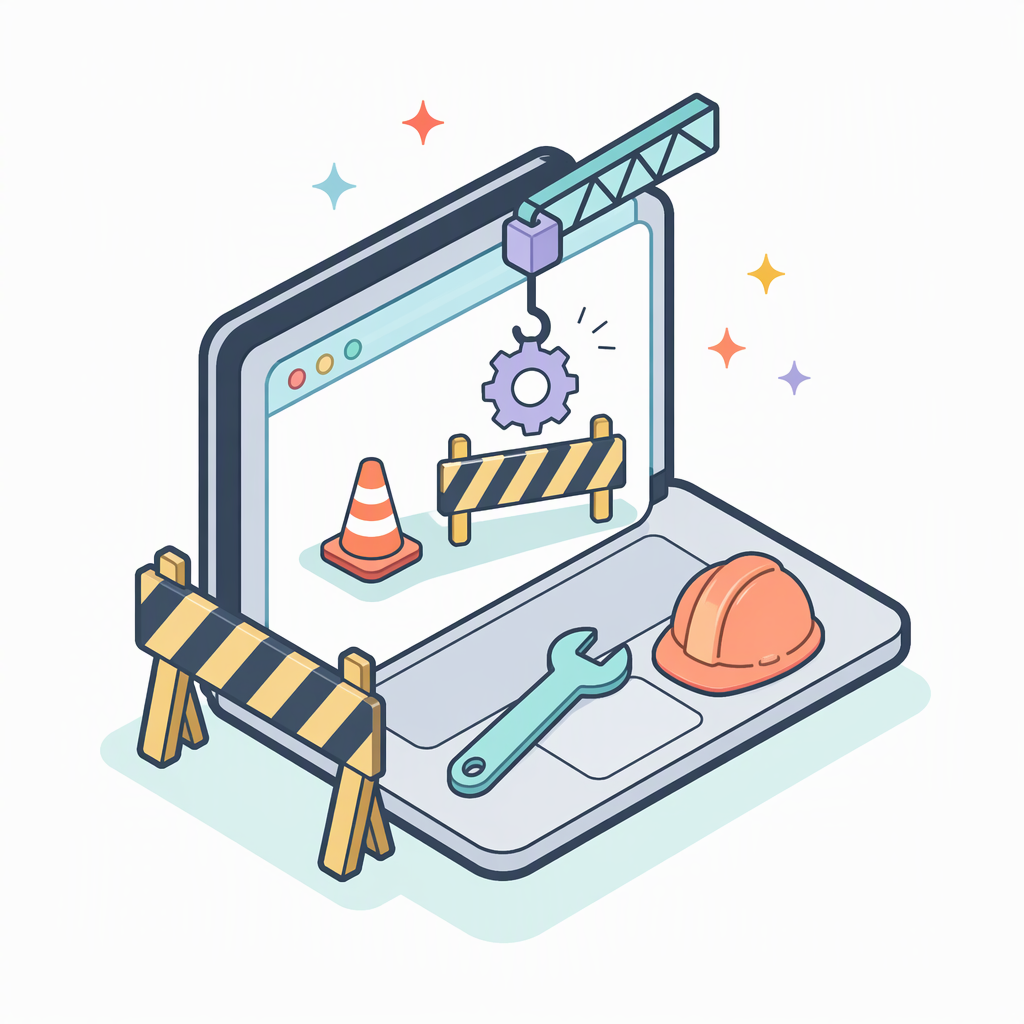
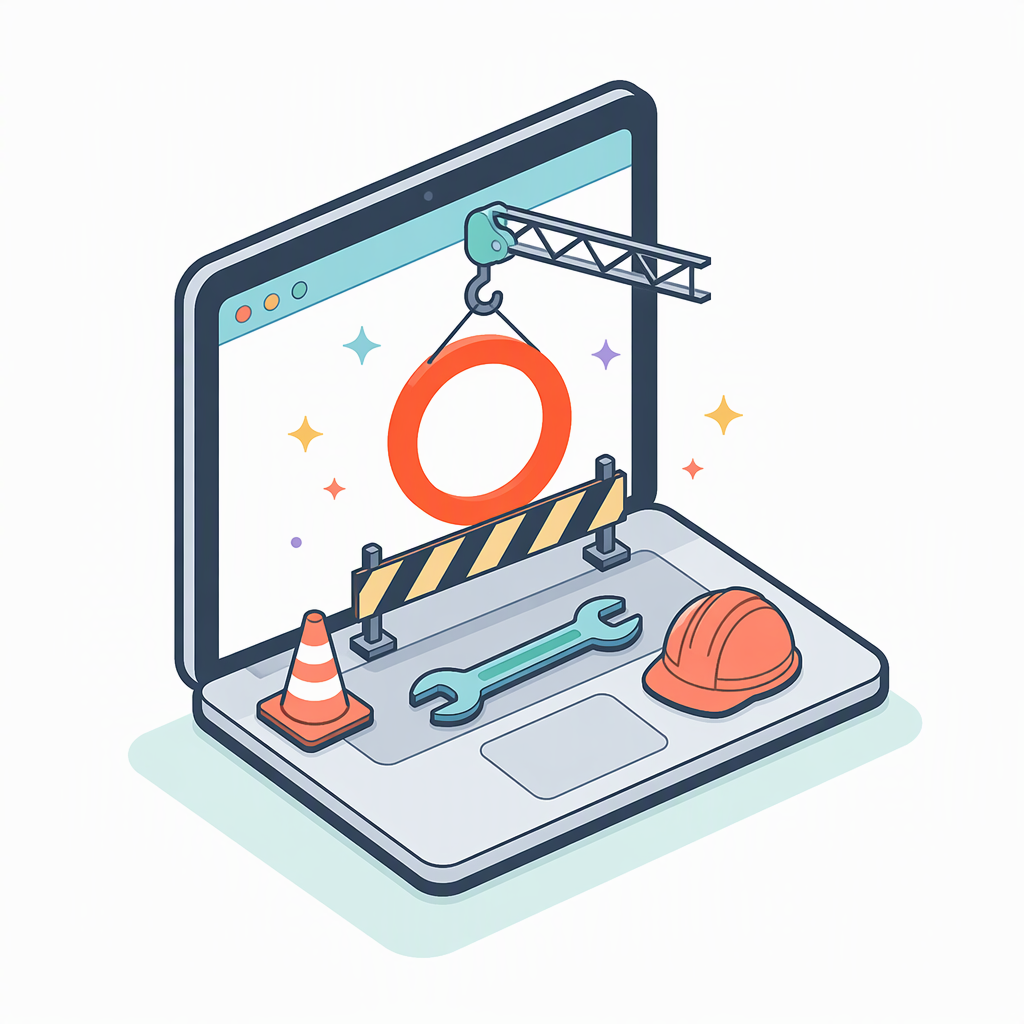
Ilustracion con el anillo Omni y dialogo en TODOS los accesos pendientes
- en-construccion.png regenerada: la grua levanta el anillo naranja de
  Omni sobre la laptop en obras.
- Los botones de la barra superior (Mejorar, Llamadas, Marketplace) y
  los enlaces del menu de ayuda (Base de conocimientos, Comunidad,
  Soporte) tambien abren el dialogo «en construccion». 43 puntos en
  total cubiertos entre menu lateral, barra superior y ayuda.

diff --git a/src/shell.js b/src/shell.js
@@ -199,7 +199,7 @@ export function mountShell({ root, active, sub }) {
     </div>
     <button class="topbar__assistant" type="button"><span class="ai-spark">✦</span> Asistente de Omni</button>
     <div class="topbar__right">
-      <button class="topbar__icon" type="button" aria-label="Mejorar"><span class="ico ico--rocket"></span></button>
+      <button class="topbar__icon" type="button" aria-label="Mejorar" data-soon="Mejorar"><span class="ico ico--rocket"></span></button>
       <div class="menu">
         <button class="topbar__icon" type="button" aria-label="Crear" aria-haspopup="true"><span class="ico ico--plus"></span></button>
         <div class="menu__panel menu__panel--right">
@@ -210,8 +210,8 @@ export function mountShell({ root, active, sub }) {
           <a class="menu__item" href="${root}tasks/">Crear tarea</a>
         </div>
       </div>
-      <button class="topbar__icon" type="button" aria-label="Llamadas"><span class="ico ico--phone"></span></button>
-      <button class="topbar__icon" type="button" aria-label="Marketplace"><span class="ico ico--marketplace"></span></button>
+      <button class="topbar__icon" type="button" aria-label="Llamadas" data-soon="Llamadas"><span class="ico ico--phone"></span></button>
+      <button class="topbar__icon" type="button" aria-label="Marketplace" data-soon="Marketplace"><span class="ico ico--marketplace"></span></button>
       <div class="menu">
         <button class="topbar__icon" type="button" id="notif-btn" data-root="${root}" aria-label="Notificaciones" aria-haspopup="true"><span class="ico ico--bell"></span><span class="count" ${unreadCount() ? '' : 'hidden'}>${unreadCount()}</span></button>
         <div class="menu__panel menu__panel--right menu__panel--wide" id="notif-panel">${notifPanelHtml(root)}</div>
@@ -219,9 +219,9 @@ export function mountShell({ root, active, sub }) {
       <div class="menu">
         <button class="topbar__icon" type="button" aria-label="Ayuda" aria-haspopup="true"><span class="ico ico--help"></span></button>
         <div class="menu__panel menu__panel--right">
-          <a class="menu__item" href="#">Base de conocimientos</a>
-          <a class="menu__item" href="#">Comunidad</a>
-          <a class="menu__item" href="#">Contactar con soporte</a>
+          <a class="menu__item" href="#" data-soon="Base de conocimientos">Base de conocimientos</a>
+          <a class="menu__item" href="#" data-soon="Comunidad">Comunidad</a>
+          <a class="menu__item" href="#" data-soon="Contactar con soporte">Contactar con soporte</a>
         </div>
       </div>
       <button class="topbar__icon tip" type="button" id="theme-toggle" aria-label="Cambiar tema"><span class="ico ${resolvedTheme() === 'dark' ? 'ico--sun' : 'ico--moon'}"></span><span class="tip__text">${resolvedTheme() === 'dark' ? 'Cambiar a tema claro' : 'Cambiar a tema oscuro'}</span></button>
@@ -248,6 +248,16 @@ export function mountShell({ root, active, sub }) {
   if (scrim) scrim.addEventListener('click', () => sidenav.classList.remove('is-open'));
 
   wireMenus();
+  // The topbar "soon" entries (Mejorar, Llamadas, Marketplace, help links) open the same
+  // "en construcción" dialog as the side navigation.
+  topbar.addEventListener('click', (e) => {
+    const soon = e.target.closest('[data-soon]');
+    if (!soon) return;
+    e.preventDefault();
+    e.stopPropagation();
+    closeMenus();
+    openSoon(root, soon.dataset.soon || soon.textContent.trim());
+  });
   // The moon/sun button toggles light ↔ dark (the "Según el sistema" choice becomes explicit on click).
   const themeBtn = document.getElementById('theme-toggle');
   if (themeBtn) themeBtn.addEventListener('click', () => {
